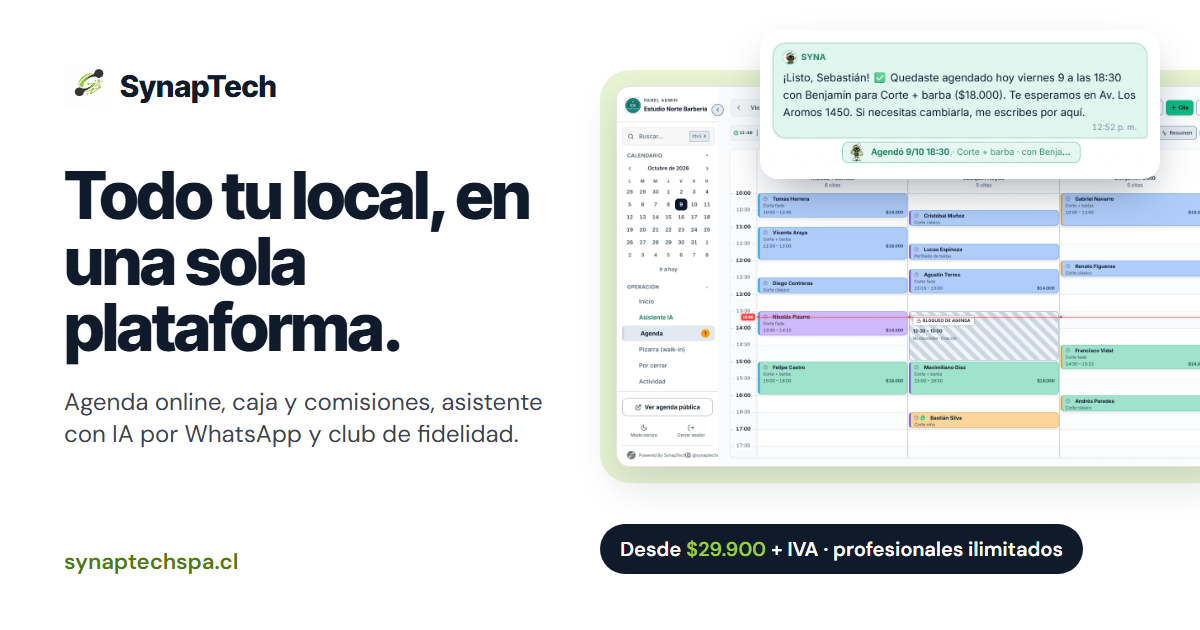
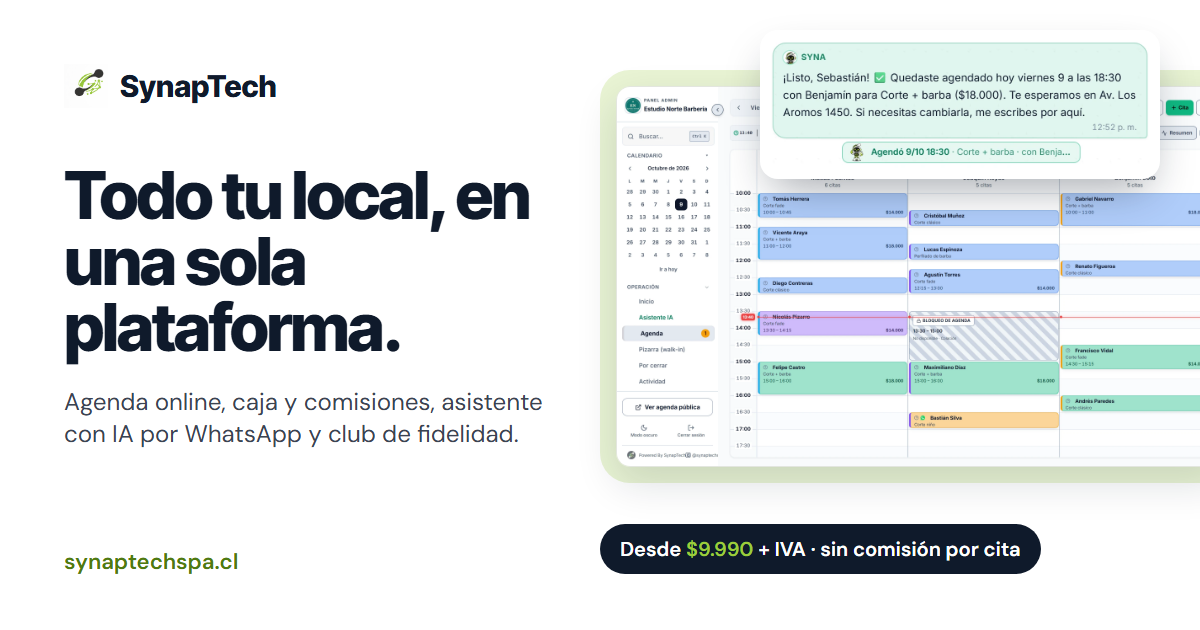
fix(precios): el asistente vende solo en planes con IA; og-image con "Desde $9.990 + IVA"
- "El asistente vende" deja de ser adicional de Independiente y Local: es
  parte del asistente, así que solo viene en Independiente IA, Local IA y Todo
  Incluido (tabla, adicionales, /tienda-online; llms.txt, Syna y JSON-LD salen
  de content/precios.ts). Syna secretaria sigue a $9.900 en los planes sin IA.
- public/og-image.png re-renderizada con la misma plantilla
  (devtools/guias-panel/sitio-web/_og): "Desde $9.990 + IVA · sin comisión
  por cita" en vez de "$29.900 · profesionales ilimitados".

Changed region(s): [[0.5858, 0.8143, 0.925, 0.9349]]

diff --git a/apps/web/src/content/precios.ts b/apps/web/src/content/precios.ts
@@ -158,7 +158,6 @@ export const PRECIO = {
   instagram: 19900,
   conversacionesExtra: 9900,
   secretaria: 9900,
-  vende: 9900,
   reactivacion: 9900,
   dominioAnio: 15000,
 };
@@ -174,7 +173,6 @@ export const ADICIONALES: Adicional[] = [
   { id: "instagram", nombre: "Asistente en Instagram", desc: "El asistente también responde y agenda por mensaje directo de Instagram.", precio: `${fmt(PRECIO.instagram)} / mes`, nota: "Para Independiente IA y Local IA. Incluido en Todo Incluido" },
   { id: "conversaciones", nombre: "Conversaciones extra", desc: "Si se acaba el cupo del mes, el asistente no se corta: se suma un tramo de 100 conversaciones.", precio: `${fmt(PRECIO.conversacionesExtra)} cada 100` },
   { id: "secretaria", nombre: "Syna, tu secretaria", desc: "Le escribes por WhatsApp, por texto o audio, y revisa tu agenda, te cuenta cuánto vendiste y te recuerda lo pendiente.", precio: `${fmt(PRECIO.secretaria)} / mes`, nota: "Para Independiente y Local. Incluida en los planes con IA" },
-  { id: "vende", nombre: "El asistente vende", desc: "Responde por tus productos con precio y stock, y se los aparta al cliente para su cita.", precio: `${fmt(PRECIO.vende)} / mes`, nota: "Para Independiente y Local. Incluido en los planes con IA" },
   { id: "reactivacion", nombre: "Reactivación IA", desc: "Detecta a los clientes que dejaron de venir y les escribe a tiempo para que vuelvan.", precio: `${fmt(PRECIO.reactivacion)} / mes`, nota: "Incluida en Todo Incluido" },
   { id: "dominio", nombre: "Dominio propio", desc: "Tu página de reservas en tu propia dirección .cl.", precio: `${fmt(PRECIO.dominioAnio)} / año`, nota: "Incluido en Todo Incluido" },
   { id: "campanas", nombre: "Mensajes de campaña por WhatsApp", desc: "La herramienta de campañas viene en todos los planes; los mensajes salen por la vía oficial de WhatsApp, con el nombre de tu local.", precio: `desde ${fmt(BOLSAS_WA[0].precio)}`, nota: `Bolsas de ${BOLSAS_WA.map((b) => b.avisos.toLocaleString("es-CL")).join(", ").replace(/, ([^,]*)$/, " o $1")} mensajes` },
@@ -263,7 +261,7 @@ export const COMPARATIVA: Grupo[] = [
       { label: "Conversaciones al mes", ayuda: "Si se acaban, no se corta: tramos de 100 a $9.900 + IVA", v: [false, "150", false, "300", "500"] },
       { label: "Recordatorios de cita por WhatsApp", ayuda: "Con el asistente conectado al número del local, a clientes que lo autorizaron", v: [false, true, false, true, true] },
       { label: "Syna, tu secretaria por WhatsApp", v: [add(PRECIO.secretaria), true, add(PRECIO.secretaria), true, true] },
-      { label: "El asistente vende tus productos", v: [add(PRECIO.vende), true, add(PRECIO.vende), true, true] },
+      { label: "El asistente vende tus productos", ayuda: "Es parte del asistente: solo en los planes con IA", v: [false, true, false, true, true] },
       { label: "Asistente en Instagram", v: [false, add(PRECIO.instagram), false, add(PRECIO.instagram), true] },
       { label: "Reactivación IA", v: [add(PRECIO.reactivacion), add(PRECIO.reactivacion), add(PRECIO.reactivacion), add(PRECIO.reactivacion), true] },
     ],

diff --git a/apps/web/src/app/tienda-online/page.tsx b/apps/web/src/app/tienda-online/page.tsx
@@ -4,7 +4,6 @@ import Footer   from "@/components/Footer";
 import CtaFinal from "@/components/CtaFinal";
 import FaqSeo   from "@/components/FaqSeo";
 import { altaIA, CTA_IA, waLink } from "@/content/catalogo";
-import { ADICIONALES } from "@/content/precios";
 import { metaPagina } from "@/lib/seo";
 
 /* Tienda online (11-10-2026). Ignacio: "la tienda que tienen las barberías
@@ -39,14 +38,13 @@ const TIENDAS = [
   { nombre: "El 10 Salón Masculino", url: "https://el10salonmasculino.synaptechspa.cl/tienda" },
 ];
 
-const vende = ADICIONALES.find((a) => /vende/i.test(a.nombre));
 
 const FAQ = [
   { q: "¿La tienda tiene un costo aparte?", a: "No: viene con tu plan de SynapTech. Si cobras con tarjeta, Mercado Pago cobra su comisión por cada pago, como en cualquier venta con Mercado Pago." },
   { q: "¿Necesito Mercado Pago?", a: "Solo para cobrar con tarjeta en la tienda. Sin él, tus clientes igual ven tus productos y los apartan para pagarlos en el local." },
   { q: "¿Cómo cargo mis productos?", a: "Desde el panel, en Productos: nombre, precio, foto, categoría y stock. Si ya los tienes en otra agenda o en una planilla, te los cargamos nosotros." },
   { q: "¿Sirve si no tengo muchos productos?", a: "Sí. Hay tiendas con 4 productos y con más de 200. Puedes empezar con los que más vendes en el mesón." },
-  ...(vende ? [{ q: "¿El asistente puede vender por WhatsApp?", a: `Sí, con el adicional "${vende.nombre}" (${vende.precio} + IVA): ${vende.desc.charAt(0).toLowerCase()}${vende.desc.slice(1)}` }] : []),
+  { q: "¿El asistente puede vender por WhatsApp?", a: "Sí, en los planes con IA (Independiente IA, Local IA y Todo Incluido): responde por tus productos con precio y stock, y se los aparta al cliente para su cita. Es parte del asistente, así que no existe en los planes sin IA." },
 ];
 
 export default function TiendaOnline() {
